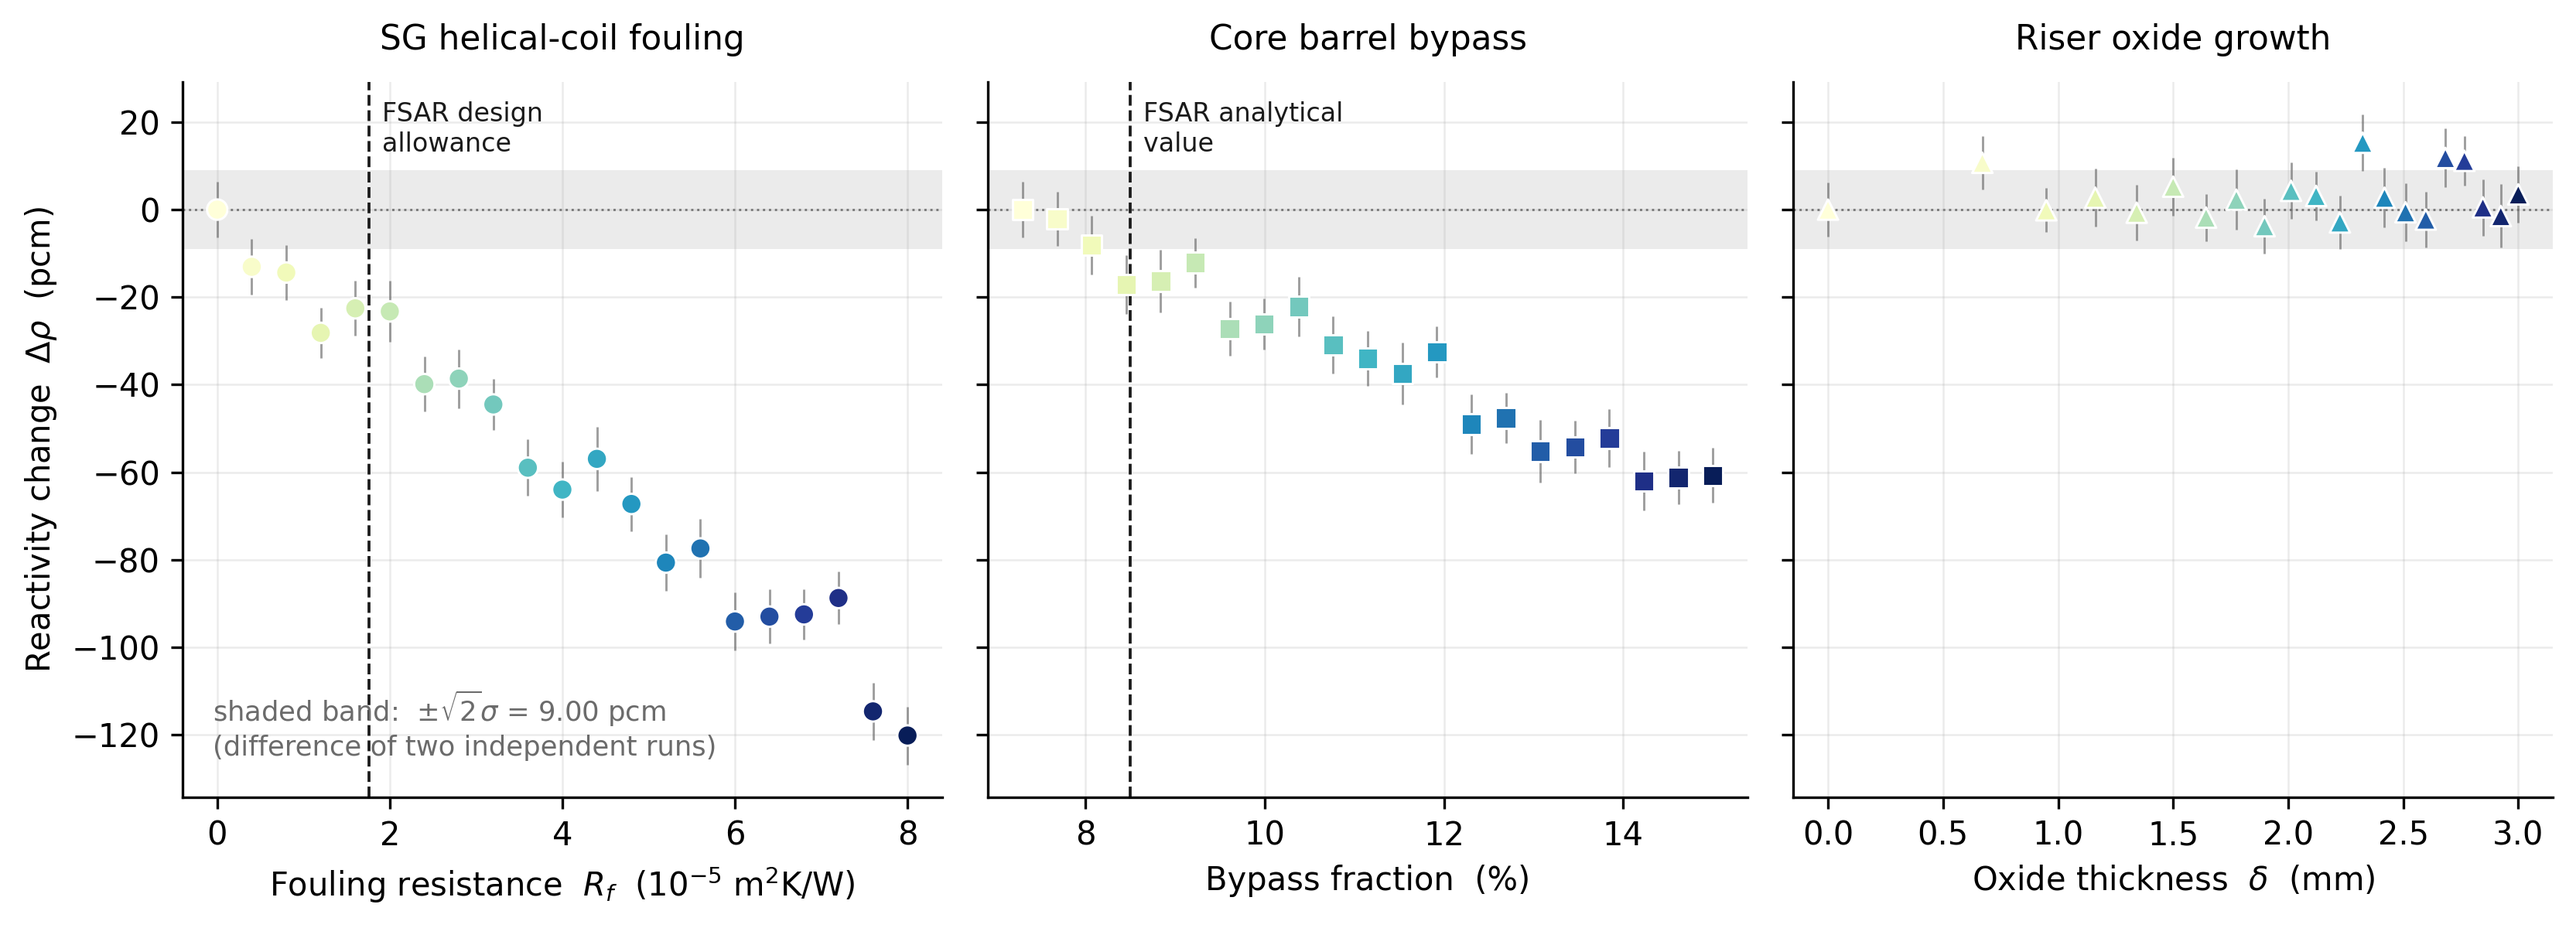
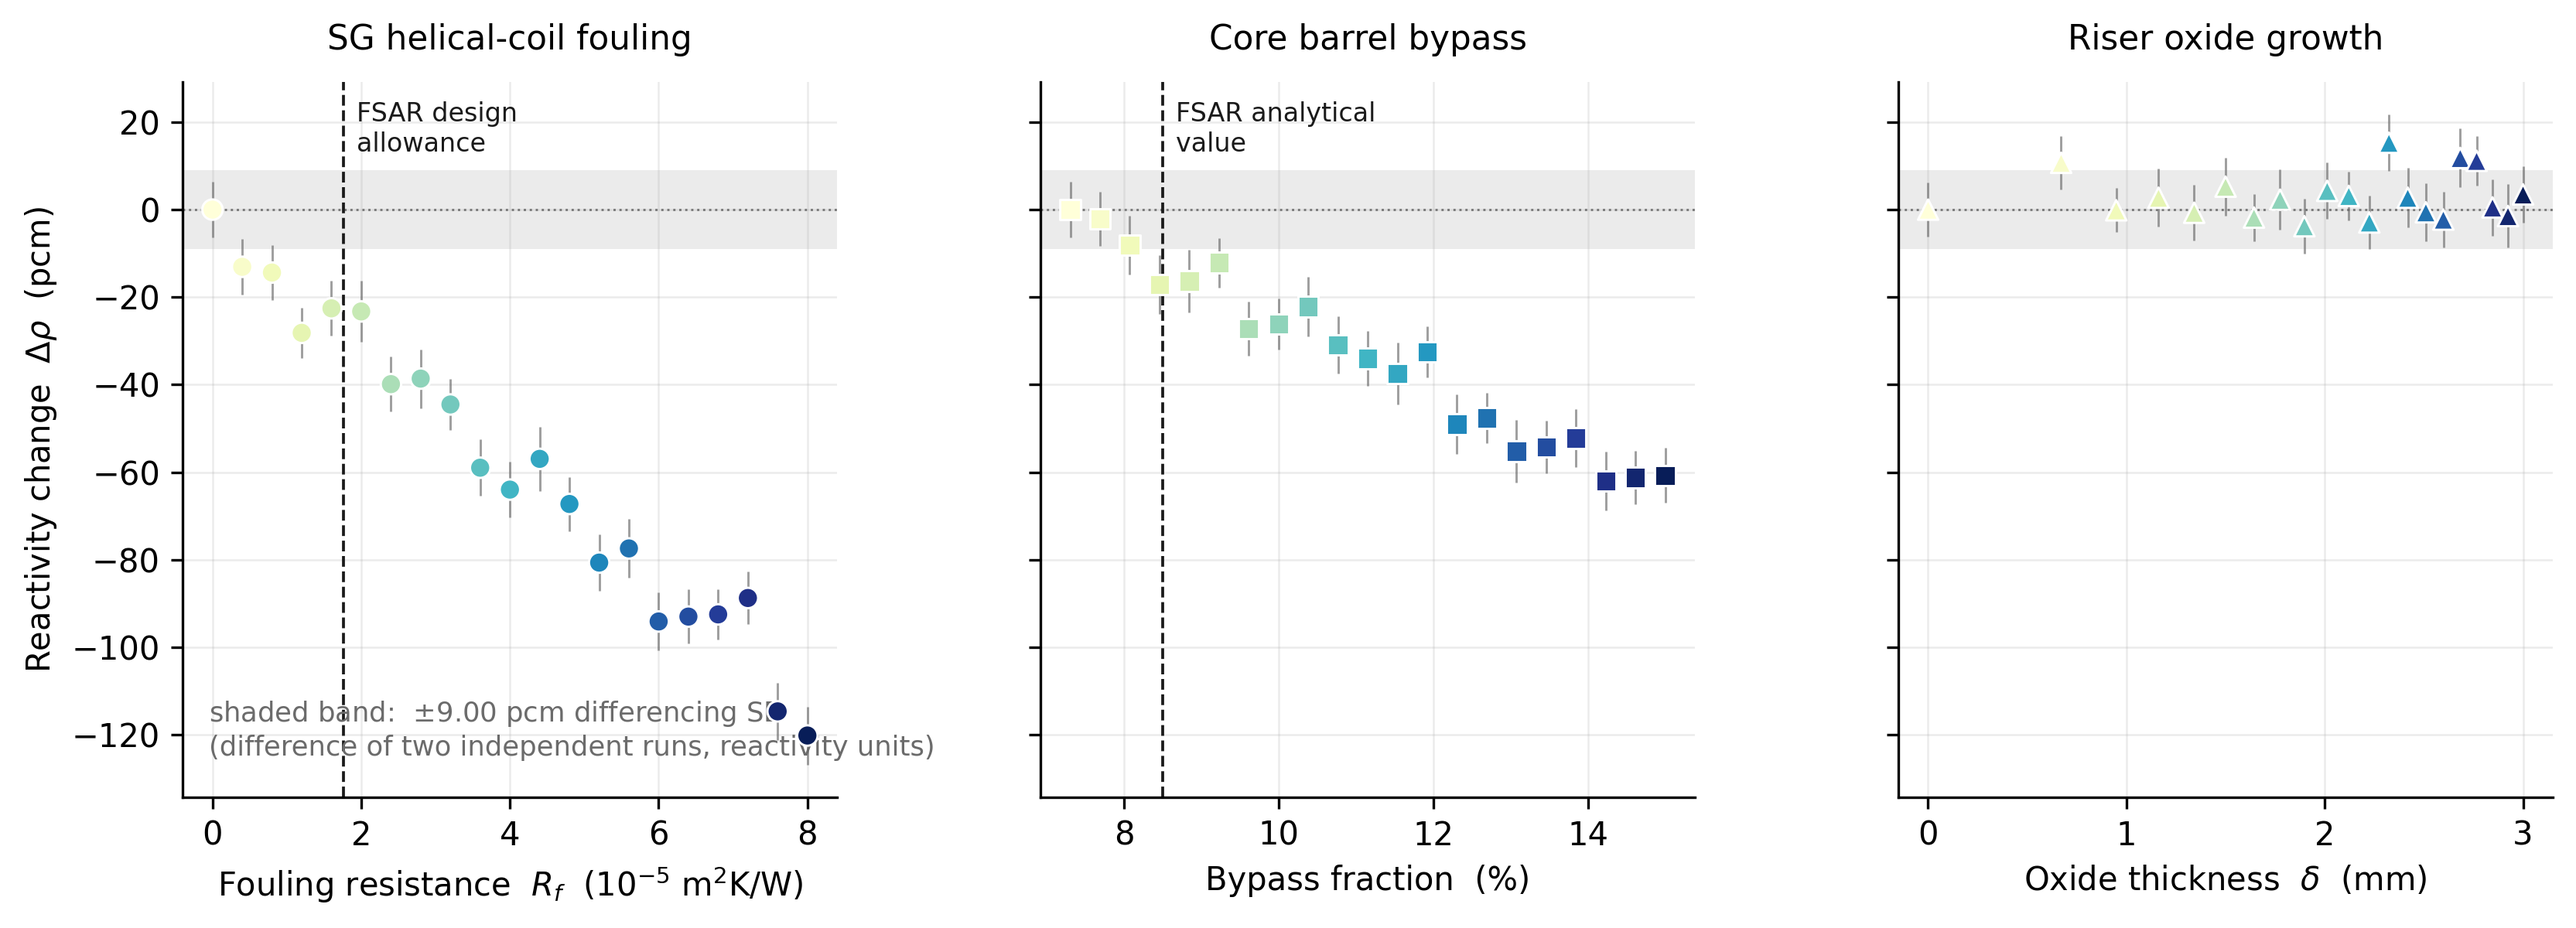
Fix ambiguous three-orders-of-magnitude claim and figure-2 sigma label
The +3 um roughness sensitivity (<=0.12 pcm) is ~75x (not ~1000x/three
orders of magnitude) smaller than the 9.00 pcm differencing SD; fix the
wording in README.md to match the corrected manuscript text.

Figure 2's embedded annotation read "shaded band: +-sqrt(2)*sigma = 9.00
pcm", which is ambiguous about which sigma is meant. Relabel it
"+-9.00 pcm differencing SD" to match the manuscript caption, and
regenerate the PNG.

diff --git a/figures/generate_figures_revised.py b/figures/generate_figures_revised.py
@@ -155,8 +155,8 @@ for ax, (d, mk, title, xmap, xlab, mark, mlbl) in zip(axes, panels):
 
 axes[0].set_ylabel("Reactivity change  $\\Delta\\rho$  (pcm)")
 axes[0].text(0.04, 0.05,
-             f"shaded band:  $\\pm\\sqrt{{2}}\\sigma$ = {SIGMA_R:.2f} pcm\n"
-             f"(difference of two independent runs)",
+             f"shaded band:  $\\pm${SIGMA_R:.2f} pcm differencing SD\n"
+             f"(difference of two independent runs, reactivity units)",
              transform=axes[0].transAxes, fontsize=8.5, color=MUTED,
              va="bottom", ha="left", linespacing=1.3)
 

diff --git a/README.md b/README.md
@@ -105,7 +105,7 @@ python checks/fit_coefficient.py
 
 Each eigenvalue calculation uses 500,000 particles per batch with 110 total batches, of which 10 are inactive. The batch-statistics uncertainty on the eigenvalue is 12.61 pcm; a difference of two independent calculations therefore carries sqrt(2) sigma, which is 17.84 pcm expressed in delta-k and 9.00 pcm expressed in reactivity.
 
-The riser degradation law (`RiserCorrosionModel.compute`) varies only the oxide-driven flow-area reduction; deposit surface roughness is deliberately not folded into it. Running `python degradation_models/degradation_scenarios.py` also prints a standalone roughness sensitivity check (reviewer point M9): adding a representative +3 um deposit roughness (or an extreme +50 um case) on top of the maximum oxide thickness changes the whole-loop coolant density by at most 0.0011%, equivalent to at most 0.12 pcm in reactivity through the fitted coefficient -- three orders of magnitude below the 9.00 pcm differencing uncertainty above -- so it is reported separately rather than mixed into the swept degradation level.
+The riser degradation law (`RiserCorrosionModel.compute`) varies only the oxide-driven flow-area reduction; deposit surface roughness is deliberately not folded into it. Running `python degradation_models/degradation_scenarios.py` also prints a standalone roughness sensitivity check (reviewer point M9): adding a representative +3 um deposit roughness (or an extreme +50 um case) on top of the maximum oxide thickness changes the whole-loop coolant density by at most 0.0011%, equivalent to at most 0.12 pcm in reactivity through the fitted coefficient -- about 75 times smaller than the 9.00 pcm differencing uncertainty above -- so it is reported separately rather than mixed into the swept degradation level.
 
 ## Property verification
 
